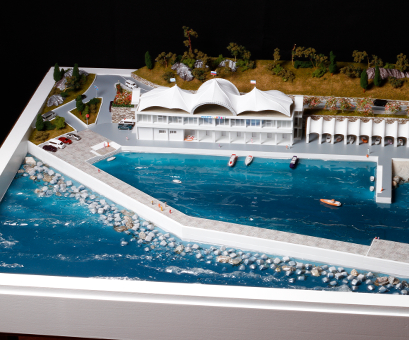
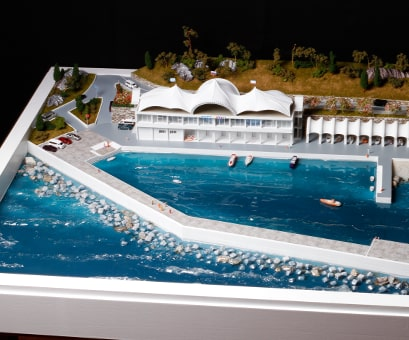
Сжал картинки, добавил карту

diff --git a/index.html b/index.html
@@ -402,6 +402,10 @@
     <!-- /.container -->
   </div>
   
+  <div class="map">
+    <iframe src="https://www.google.com/maps/embed?pb=!1m18!1m12!1m3!1d3167.466886943323!2d37.53594858426654!3d55.84987303003794!2m3!1f0!2f0!3f0!3m2!1i1024!2i768!4f13.1!3m3!1m2!1s0x46b537bf9668ac29%3A0x18dfd9d5b810d58b!2z0JDQstGC0L7QvNC-0YLQvtGA0L3QsNGPINGD0LsuLCA00JAg0YHRgtGA0L7QtdC90LjQtSAyMSwg0JzQvtGB0LrQstCwLCAxMjU0Mzg!5e0!3m2!1sru!2sru!4v1545116450808" width="100%" height="100%" frameborder="0" style="border:0" allowfullscreen></iframe>
+  </div
+  >
   <script src="js/wow.min.js"></script>
   <script>
     new WOW().init();

diff --git a/css/style.css b/css/style.css
@@ -1097,6 +1097,11 @@ template {
   line-height: 20px;
 }
 
+.map {
+  height: 416px;
+  margin-bottom: 4px;
+}
+
 body {
   font-family: 'Proxima Nova Regular', sans-serif;
   color: #000000;

diff --git a/sass/style.sass b/sass/style.sass
@@ -10,6 +10,7 @@
 @import 'portfolio'
 @import 'clients'
 @import 'advantages'
+@import 'map'
 
 
 body

diff --git a/sass/_map.sass b/sass/_map.sass
@@ -1,0 +1,4 @@
+.map
+  height: 416px
+  margin-bottom: 4px
+
